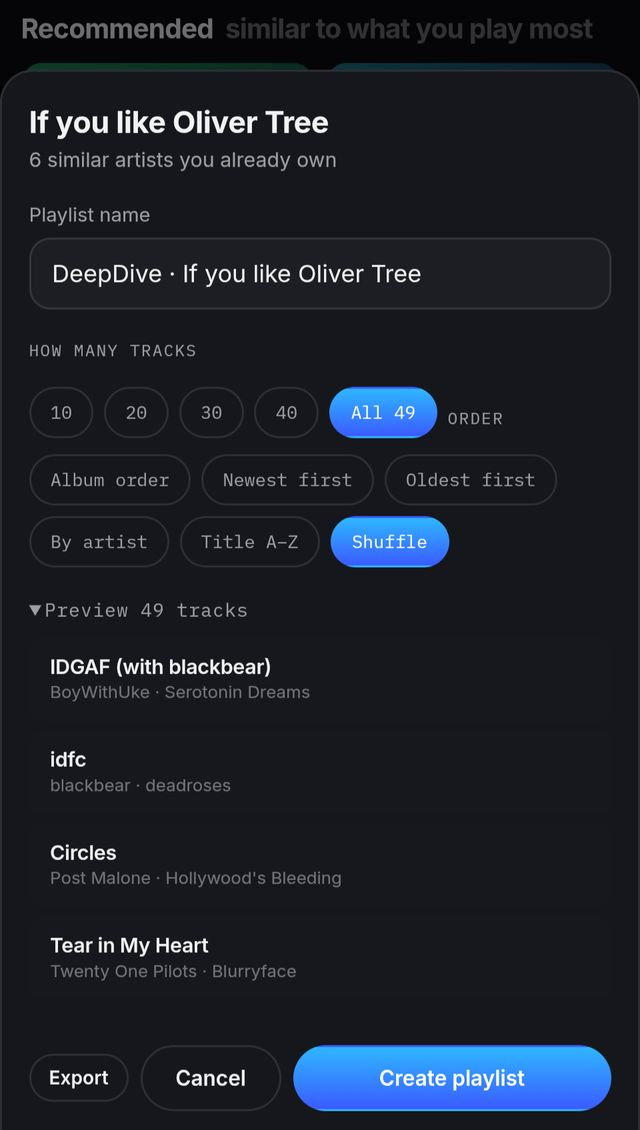
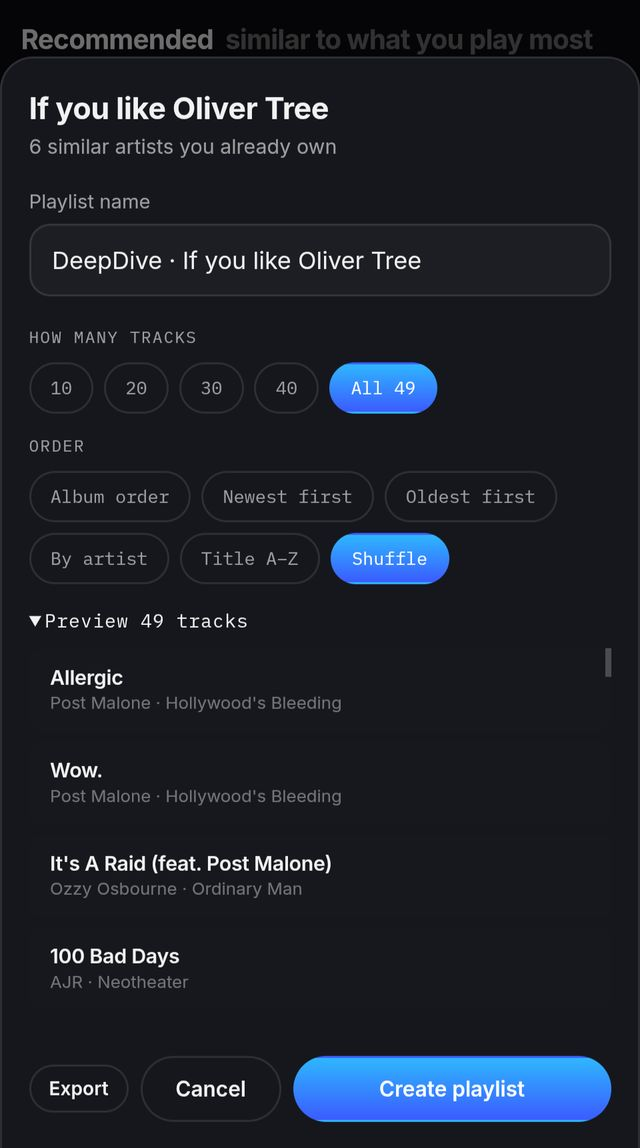
2.8.62: 'If you like...' for any artist
The generated recommendations seed from the twelve artists you play
most, so the seed is always something you already love. This asks the
other direction: name anyone, including an artist you own nothing by,
and get the things in your library that resemble them. What matters is
what comes out, not what went in.

Uses the shared artist search against Spotify rather than the library,
or you could only name artists you already own — which would defeat the
point.

Empty results say which kind of empty they are: Last.fm not knowing the
artist, or you owning too few of their neighbours, with the ones it did
find named.

Landing page screenshot retaken after the Order layout fix — the
dimension check added an hour ago caught my guess at the new height.

diff --git a/docs/js/app.js b/docs/js/app.js
@@ -23,7 +23,7 @@ import * as lastfm from "./lastfm.js";
 // Build marker. Twice now, diagnosing a problem has meant reasoning
 // about which version was actually loaded from indirect evidence — slow
 // and easy to get wrong. Showing it removes the guesswork.
-export const BUILD = "2.8.61";
+export const BUILD = "2.8.62";
 
 const client = new SpotifyClient(auth.getToken);
 // Incremental liked-songs cache: read the whole library once, then only
@@ -3313,6 +3313,85 @@ async function hydrateFromCache(bucket, artists, map, fetcher) {
   }
 }
 
+/**
+ * "If you like…" for any artist.
+ *
+ * The generated recommendations seed from the twelve artists you play
+ * most, which means the seed is always something you already love. This
+ * lets you ask about anyone — including an artist you own nothing by,
+ * which is the more interesting direction: what in *my* library sounds
+ * like this thing I've just heard?
+ */
+async function renderAskSimilar() {
+  setTitle("DeepDive · If you like…");
+  setActiveTab("mixes");
+  root.innerHTML = `
+    <div class="row-head"><h2>If you like&hellip;</h2></div>
+    <p class="nav-hint" style="margin-top:0;">Name an artist and DeepDive will ask Last.fm who resembles them, then build a mix from the ones in your library. You don't have to own the artist you name.</p>
+    ${searchShellHtml()}
+    <div id="ask-result"></div>
+    <div class="actions"><button class="btn btn-ghost" data-tab="mixes">Back to mixes</button></div>`;
+
+  const out = document.getElementById("ask-result");
+
+  wireArtistSearch({
+    inputId: "artist-input",
+    listId: "autofill-list",
+    // Spotify's search rather than the library, so any artist can be
+    // named — that is the whole point of this screen.
+    source: (q) => client.searchArtists(q, 6),
+    onChoose: (it) => build(it.name),
+  });
+  document.getElementById("search-go-btn")?.addEventListener("click", () => {
+    const n = document.getElementById("artist-input").value.trim();
+    if (n) build(n);
+  });
+
+  async function build(name) {
+    out.innerHTML = `<p class="nav-hint">Asking Last.fm who sounds like ${esc(name)}…</p>`;
+    let cached = [];
+    try { cached = await libraryCache.peek(); } catch (e) { cached = []; }
+    if (!cached.length) {
+      out.innerHTML = `<p class="empty-note">Your library hasn't been read yet.</p>
+        <div class="actions"><button class="btn btn-primary btn-small" data-read-library>Read my library</button></div>`;
+      wireReadLibrary(out, () => build(name));
+      return;
+    }
+
+    let similar = [];
+    try {
+      similar = await lastfm.similarArtists(name, 40);
+    } catch (e) {
+      out.innerHTML = `<p class="empty-note">${esc(e.suspended
+        ? "Last.fm rejected the key — check it in Settings."
+        : `Couldn't reach Last.fm: ${e.message || e}`)}</p>`;
+      return;
+    }
+    if (!similar.length) {
+      out.innerHTML = `<p class="empty-note">Last.fm doesn't know who sounds like ${esc(name)}. Try a better-known spelling.</p>`;
+      return;
+    }
+
+    const mix = insights.similarOwnedMix(cached, similar, name);
+    if (mix.tracks.length < 5) {
+      // Being specific about why: the artist was found, the neighbours
+      // were found, you just don't own them.
+      out.innerHTML = `<p class="empty-note">Last.fm found ${similar.length} artists like ${esc(name)}, but you own too few of them to build a mix${mix.artists.length ? ` — just ${esc(mix.artists.join(", "))}` : ""}.</p>`;
+      return;
+    }
+
+    out.innerHTML = `<p class="nav-hint">${mix.tracks.length} tracks from ${mix.artists.length} artists you own: ${esc(mix.artists.slice(0, 6).join(", "))}${mix.artists.length > 6 ? "…" : ""}</p>`;
+    openCardModal({
+      id: `ask-${name.toLowerCase().replace(/\s+/g, "-")}`,
+      title: `If you like ${name}`,
+      subtitle: `${mix.artists.length} similar artist${mix.artists.length === 1 ? "" : "s"} you already own`,
+      name: `DeepDive · If you like ${name}`,
+      count: mix.tracks.length,
+      tracks: mix.tracks,
+    });
+  }
+}
+
 // Similar artists, cached for the session alongside the tags. Same
 // shape and the same cost — one request per seed artist.
 let _similarBySeed = new Map();
@@ -3375,7 +3454,16 @@ async function renderRecommendations() {
     <div class="row-head"><h2>Recommended</h2><span class="qual">similar to what you play most</span></div>
     <div class="card-row" id="rec-cards"></div>`;
   const row = document.getElementById("rec-cards");
-  row.innerHTML = cards.map((c, i) => `
+  // Ask about anyone, not just the twelve DeepDive picked. Leads the
+  // row for the same reason Build your own leads Mixes: it's the one
+  // you start rather than one already decided.
+  const askCard = `
+    <button class="pcard is-custom" data-rec-ask>
+      <span class="pcard-icon"><svg viewBox="0 0 24 24" fill="none" stroke="currentColor" stroke-width="2" stroke-linecap="round" stroke-linejoin="round"><circle cx="11" cy="11" r="7"/><line x1="21" y1="21" x2="16.65" y2="16.65"/></svg></span>
+      <span class="pcard-title">If you like&hellip;</span>
+      <span class="pcard-sub">name any artist, even one you don't own</span>
+    </button>`;
+  row.innerHTML = askCard + cards.map((c, i) => `
     <button class="pcard" data-rec-card="${esc(c.id)}" style="--h:${(150 + i * 41) % 360};">
       <span class="pcard-icon"><svg viewBox="0 0 24 24" fill="none" stroke="currentColor" stroke-width="2" stroke-linecap="round" stroke-linejoin="round"><path d="M12 3v3"/><path d="M12 18v3"/><path d="M5 12H2"/><path d="M22 12h-3"/><circle cx="12" cy="12" r="5"/></svg></span>
       <span class="pcard-title">${esc(c.title)}</span>
@@ -3384,6 +3472,7 @@ async function renderRecommendations() {
   row.querySelectorAll("[data-rec-card]").forEach((btn) =>
     btn.addEventListener("click", () =>
       openCardModal(cards.find((c) => c.id === btn.dataset.recCard))));
+  row.querySelector("[data-rec-ask]")?.addEventListener("click", () => renderAskSimilar());
 }
 
 // ---- genre tags ----

diff --git a/docs/js/insights.js b/docs/js/insights.js
@@ -886,6 +886,41 @@ export function recommendationCards(tracks, similarByArtist, { minTracks = 6, li
 }
 
 /**
+ * A mix of artists similar to a named one, drawn from what you own.
+ *
+ * `recommendationCards` seeds from artists you already play most, so
+ * the seed is necessarily one you own. This doesn't require that: you
+ * can ask "if you like Radiohead" while owning no Radiohead at all,
+ * and still get the artists in your library that resemble them. That
+ * is arguably the more useful direction — the point is what comes out,
+ * not what went in.
+ */
+export function similarOwnedMix(tracks, similar, seedName, { maxTracks = 60 } = {}) {
+  const owned = new Map();
+  for (const a of byArtist(tracks).values()) owned.set((a.name || "").trim().toLowerCase(), a);
+
+  const seedKey = (seedName || "").trim().toLowerCase();
+  const picked = [];
+  const matched = [];
+  const seen = new Set();
+  for (const sim of similar || []) {
+    const key = (sim.name || "").trim().toLowerCase();
+    // Excluding the seed: a mix of the artist you asked about isn't a
+    // recommendation, it's a dive.
+    if (key === seedKey || seen.has(key)) continue;
+    const hit = owned.get(key);
+    if (!hit) continue;
+    seen.add(key);
+    matched.push(hit.name);
+    for (const t of tracks) {
+      if ((t.artists || []).some((a) => a.id === hit.id)) picked.push(t);
+    }
+    if (picked.length >= maxTracks) break;
+  }
+  return { tracks: picked, artists: matched };
+}
+
+/**
  * Artists ranked by how much of them you own.
  *
  * Genre tagging costs one request per artist, so the order matters: an

diff --git a/docs/index.html b/docs/index.html
@@ -816,7 +816,7 @@
         <p>Every mix works the same way: choose how many tracks, choose the order, look through it, then build it.</p>
       </div>
       <figure class="device device-still">
-        <img src="img/shots/app-recommend.jpg" alt="A recommendation mix built from artists similar to Oliver Tree, showing tracks already in the listener's library" width="640" height="1130" loading="lazy">
+        <img src="img/shots/app-recommend.jpg" alt="A recommendation mix built from artists similar to Oliver Tree, showing tracks already in the listener's library" width="640" height="1148" loading="lazy">
       </figure>
     </section>
 

diff --git a/TESTING.md b/TESTING.md
@@ -493,6 +493,18 @@ All three need a Last.fm key in Settings.
 - [ ] Leaving it a month should re-fetch; there's no way to test that
       quickly short of clearing site data
 
+## 16. "If you like…" (2.8.62)
+
+- [ ] The first card in Recommended is "If you like…" and opens a
+      search
+- [ ] Naming an artist you own plenty of neighbours for builds a mix
+- [ ] Naming an artist you own **nothing** by still works — that's the
+      point
+- [ ] Naming someone obscure enough that you own none of their
+      neighbours says so, and names any it did find
+- [ ] A nonsense name says Last.fm doesn't know them rather than
+      failing silently
+
 ## 5. Home tiles
 
 - [ ] Suggestion and pin tiles on Home look sharp rather than blocky

diff --git a/CHANGELOG.md b/CHANGELOG.md
@@ -4,6 +4,15 @@
 > stops at the Flask era. The 2.x record lives in the git log and
 > `ROADMAP.md`'s "Shipped since".
 
+## 2.8.62
+- Added **"If you like…"** to the Recommended row: name any artist and
+  DeepDive builds a mix from the ones in your library that resemble
+  them. You don't have to own the artist you name — asking "if you like
+  Radiohead" while owning no Radiohead is the more interesting
+  direction, since what matters is what comes out.
+- Replaced the landing page screenshot with one taken after the Order
+  layout fix.
+
 ## 2.8.61
 - Fixed: in the mix dialog, "Order" sat inline beside the last track-count
   pill instead of starting its own row. The container carried

diff --git a/CLAUDE.md b/CLAUDE.md
@@ -3,7 +3,7 @@
 Written for a future session with no memory of this one. Read this
 before touching anything.
 
-**Last updated at build 2.8.61.** If the build in `js/app.js` is well
+**Last updated at build 2.8.62.** If the build in `js/app.js` is well
 ahead of that, treat this file with suspicion and verify against the
 code — then bring it up to date.
 

diff --git a/ROADMAP.md b/ROADMAP.md
@@ -140,7 +140,7 @@ clean before anything is built on it.
 
 ---
 
-## Shipped since — build 2.8.61
+## Shipped since — build 2.8.62
 
 Delivered while working through Joseph's review notes, ahead of the
 sessions below:
